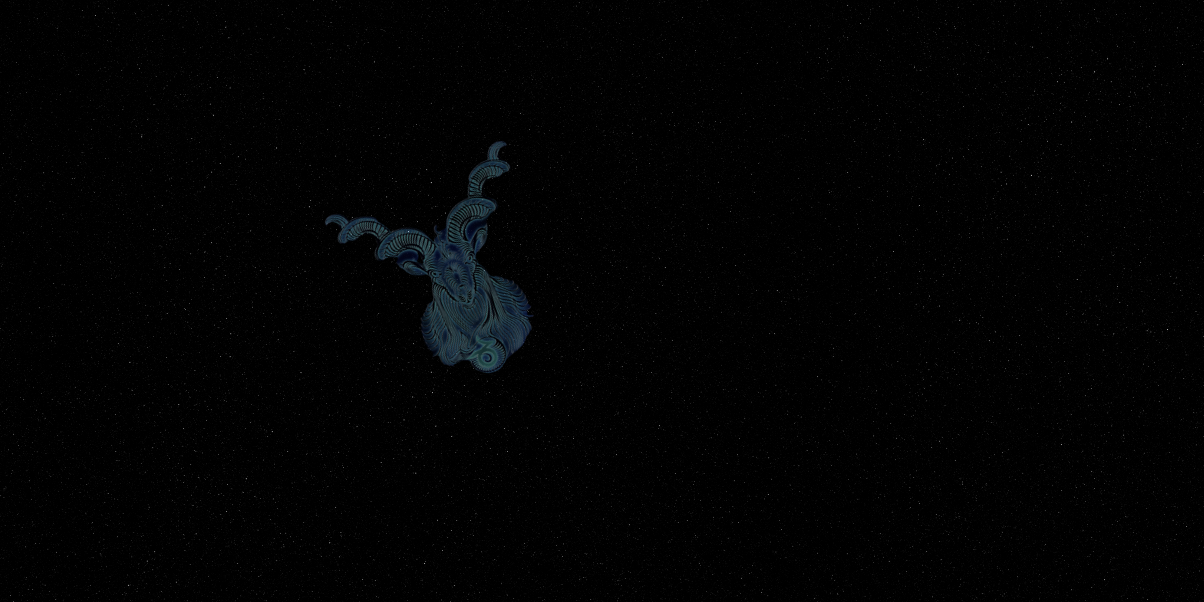
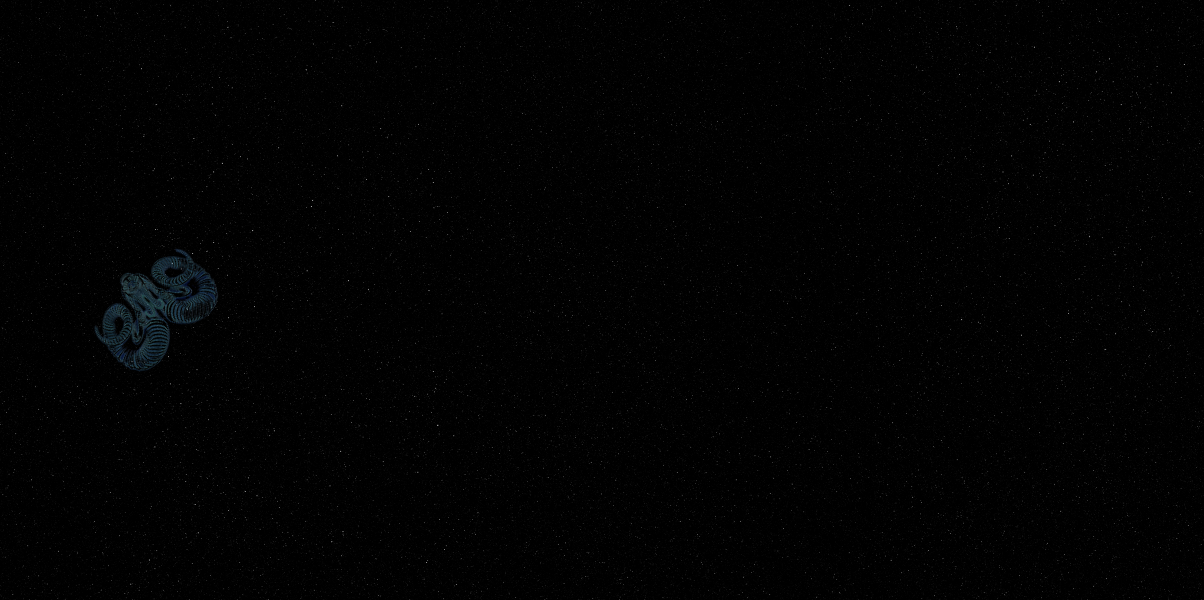
황도12궁 -이연희-

Changed region(s): [[0.2766, 0.24, 0.461, 0.63], [0.0615, 0.42, 0.1844, 0.63]]

diff --git a/js/Star/Scorpius.js b/js/Star/Scorpius.js
@@ -13,135 +13,135 @@ const SCORPIUS_1Mesh = new THREE.Mesh(geometry, Material_1);
 SCORPIUS_1Mesh.position.set(5,-115,435);
 SCORPIUS_1Mesh.scale.setScalar(4);
 scene.add(SCORPIUS_1Mesh);
-const light10_1 = new THREE.AmbientLight( 0x404040 ); // soft white light
-scene.add( light10_1 );
-light10_1.position.set(5,-115,435);
+// const light10_1 = new THREE.AmbientLight( 0x404040 ); // soft white light
+// scene.add( light10_1 );
+// light10_1.position.set(5,-115,435);
 
 ///SCORPIUS_2
 const SCORPIUS_2Mesh = new THREE.Mesh(geometry, Material_1);
 SCORPIUS_2Mesh.position.set(20,-130,430);
 SCORPIUS_2Mesh.scale.setScalar(4);
 scene.add(SCORPIUS_2Mesh);
-const light10_2 = new THREE.AmbientLight( 0x404040 ); // soft white light
-scene.add( light10_2 );
-light10_2.position.set(20,-130,430);
+// const light10_2 = new THREE.AmbientLight( 0x404040 ); // soft white light
+// scene.add( light10_2 );
+// light10_2.position.set(20,-130,430);
 
 ///SCORPIUS_3
 const SCORPIUS_3Mesh = new THREE.Mesh(geometry, Material_1);
 SCORPIUS_3Mesh.position.set(30,-142,425);
 SCORPIUS_3Mesh.scale.setScalar(4);
 scene.add(SCORPIUS_3Mesh);
-const light10_3 = new THREE.AmbientLight( 0x404040 ); // soft white light
-scene.add( light10_3 );
-light10_3.position.set(30,-142,425);
+// const light10_3 = new THREE.AmbientLight( 0x404040 ); // soft white light
+// scene.add( light10_3 );
+// light10_3.position.set(30,-142,425);
 
 ///SCORPIUS_4
 const SCORPIUS_4Mesh = new THREE.Mesh(geometry, Material_1);
 SCORPIUS_4Mesh.position.set(10,-165,417);
 SCORPIUS_4Mesh.scale.setScalar(4);
 scene.add(SCORPIUS_4Mesh);
-const light10_4 = new THREE.AmbientLight( 0x404040 ); // soft white light
-scene.add( light10_4 );
-light10_4.position.set(10,-165,417);
+// const light10_4 = new THREE.AmbientLight( 0x404040 ); // soft white light
+// scene.add( light10_4 );
+// light10_4.position.set(10,-165,417);
 
 ///SCORPIUS_5
 const SCORPIUS_5Mesh = new THREE.Mesh(geometry, Material_1);
 SCORPIUS_5Mesh.position.set(-25,-170,415);
 SCORPIUS_5Mesh.scale.setScalar(4);
 scene.add(SCORPIUS_5Mesh);
-const light10_5 = new THREE.AmbientLight( 0x404040 ); // soft white light
-scene.add( light10_5 );
-light10_5.position.set(-20,-170,417);
+// const light10_5 = new THREE.AmbientLight( 0x404040 ); // soft white light
+// scene.add( light10_5 );
+// light10_5.position.set(-20,-170,417);
 
 ///SCORPIUS_6
 const SCORPIUS_6Mesh = new THREE.Mesh(geometry, Material_1);
 SCORPIUS_6Mesh.position.set(-55,-165,415);
 SCORPIUS_6Mesh.scale.setScalar(4);
 scene.add(SCORPIUS_6Mesh);
-const light10_6 = new THREE.AmbientLight( 0x404040 ); // soft white light
-scene.add( light10_6 );
-light10_6.position.set(-55,-165,415);
+// const light10_6 = new THREE.AmbientLight( 0x404040 ); // soft white light
+// scene.add( light10_6 );
+// light10_6.position.set(-55,-165,415);
 
 ///SCORPIUS_7
 const SCORPIUS_7Mesh = new THREE.Mesh(geometry, Material_1);
 SCORPIUS_7Mesh.position.set(-65,-130,425);
 SCORPIUS_7Mesh.scale.setScalar(4);
 scene.add(SCORPIUS_7Mesh);
-const light10_7 = new THREE.AmbientLight( 0x404040 ); // soft white light
-scene.add( light10_7 );
-light10_7.position.set(-65,-130,425);
+// const light10_7 = new THREE.AmbientLight( 0x404040 ); // soft white light
+// scene.add( light10_7 );
+// light10_7.position.set(-65,-130,425);
 
 ///SCORPIUS_8
 const SCORPIUS_8Mesh = new THREE.Mesh(geometry, Material_1);
 SCORPIUS_8Mesh.position.set(-75,-100,430);
 SCORPIUS_8Mesh.scale.setScalar(4);
 scene.add(SCORPIUS_8Mesh);
-const light10_8 = new THREE.AmbientLight( 0x404040 ); // soft white light
-scene.add( light10_8 );
-light10_8.position.set(-75,-100,430);
+// const light10_8 = new THREE.AmbientLight( 0x404040 ); // soft white light
+// scene.add( light10_8 );
+// light10_8.position.set(-75,-100,430);
 
 ///SCORPIUS_9
 const SCORPIUS_9Mesh = new THREE.Mesh(geometry, Material_1);
 SCORPIUS_9Mesh.position.set(-105,-50,435);
 SCORPIUS_9Mesh.scale.setScalar(4);
 scene.add(SCORPIUS_9Mesh);
-const light10_9 = new THREE.AmbientLight( 0x404040 ); // soft white light
-scene.add( light10_9 );
-light10_9.position.set(-105,-50,435);
+// const light10_9 = new THREE.AmbientLight( 0x404040 ); // soft white light
+// scene.add( light10_9 );
+// light10_9.position.set(-105,-50,435);
 
 ///SCORPIUS_10
 const SCORPIUS_10Mesh = new THREE.Mesh(geometry, Material_1);
 SCORPIUS_10Mesh.position.set(-120,-40,430);
 SCORPIUS_10Mesh.scale.setScalar(4);
 scene.add(SCORPIUS_10Mesh);
-const light10_10 = new THREE.AmbientLight( 0x404040 ); // soft white light
-scene.add( light10_10 );
-light10_10.position.set(-120,-40,430);
+// const light10_10 = new THREE.AmbientLight( 0x404040 ); // soft white light
+// scene.add( light10_10 );
+// light10_10.position.set(-120,-40,430);
 
 ///SCORPIUS_11
 const SCORPIUS_11Mesh = new THREE.Mesh(geometry, Material_1);
 SCORPIUS_11Mesh.position.set(-135,-30,427);
 SCORPIUS_11Mesh.scale.setScalar(4);
 scene.add(SCORPIUS_11Mesh);
-const light10_11 = new THREE.AmbientLight( 0x404040 ); // soft white light
-scene.add( light10_11 );
-light10_11.position.set(-135,-30,427);
+// const light10_11 = new THREE.AmbientLight( 0x404040 ); // soft white light
+// scene.add( light10_11 );
+// light10_11.position.set(-135,-30,427);
 
 ///SCORPIUS_12
 const SCORPIUS_12Mesh = new THREE.Mesh(geometry, Material_1);
 SCORPIUS_12Mesh.position.set(-185,-15,410);
 SCORPIUS_12Mesh.scale.setScalar(4);
 scene.add(SCORPIUS_12Mesh);
-const light10_12 = new THREE.AmbientLight( 0x404040 ); // soft white light
-scene.add( light10_12 );
-light10_12.position.set(-185,-15,410);
+// const light10_12 = new THREE.AmbientLight( 0x404040 ); // soft white light
+// scene.add( light10_12 );
+// light10_12.position.set(-185,-15,410);
 
 ///SCORPIUS_13
 const SCORPIUS_13Mesh = new THREE.Mesh(geometry, Material_1);
 SCORPIUS_13Mesh.position.set(-175,5,415);
 SCORPIUS_13Mesh.scale.setScalar(4);
 scene.add(SCORPIUS_13Mesh);
-const light10_13 = new THREE.AmbientLight( 0x404040 ); // soft white light
-scene.add( light10_13 );
-light10_13.position.set(-175,5,415);
+// const light10_13 = new THREE.AmbientLight( 0x404040 ); // soft white light
+// scene.add( light10_13 );
+// light10_13.position.set(-175,5,415);
 
 ///SCORPIUS_14
 const SCORPIUS_14Mesh = new THREE.Mesh(geometry, Material_1);
 SCORPIUS_14Mesh.position.set(-185,-40,407);
 SCORPIUS_14Mesh.scale.setScalar(4);
 scene.add(SCORPIUS_14Mesh);
-const light10_14 = new THREE.AmbientLight( 0x404040 ); // soft white light
-scene.add( light10_14 );
-light10_14.position.set(-185,-40,407);
+// const light10_14 = new THREE.AmbientLight( 0x404040 ); // soft white light
+// scene.add( light10_14 );
+// light10_14.position.set(-185,-40,407);
 
 ///SCORPIUS_15
 const SCORPIUS_15Mesh = new THREE.Mesh(geometry, Material_1);
 SCORPIUS_15Mesh.position.set(-180,-70,405);
 SCORPIUS_15Mesh.scale.setScalar(4);
 scene.add(SCORPIUS_15Mesh);
-const light10_15 = new THREE.AmbientLight( 0x404040 ); // soft white light
-scene.add( light10_15 );
-light10_15.position.set(-180,-70,405);
+// const light10_15 = new THREE.AmbientLight( 0x404040 ); // soft white light
+// scene.add( light10_15 );
+// light10_15.position.set(-180,-70,405);
 
 
 }

diff --git a/js/main.js b/js/main.js
@@ -32,7 +32,7 @@ var width  = window.innerWidth,
 // Create scene
 export const scene = new THREE.Scene();
 const loader = new THREE.TextureLoader();
-var camera = new THREE.PerspectiveCamera( 90, width / height, 1, 1000 );
+var camera = new THREE.PerspectiveCamera( 90, width / height, 1, 10000 );
 // camera.position.set(-80, -20, 20);  
 
 // TrackballControls for view control
@@ -144,7 +144,8 @@ createSpotlights(scene);
 // Close up taget
 var selectedCons = 0;
 
-camera.position.set(0, 0, -10);
+camera.position.set(300, 300, 500);
+
 document.getElementById("btn_Aries").onclick = function (event) {
     if (selectedCons !== 'Aries') {
             selectedCons = 'Aries'
@@ -286,6 +287,9 @@ document.getElementById("PlanetPositionResetBtn").onclick = function (event) {
 };
 document.getElementById("btn_cameraReset").onclick = function (event) {
     camera.position.set(300, 300, 500);
+    var stars20 = createStars(480, 100);
+    scene.add(stars20);
+
 };
 
 

diff --git a/js/Line/lineCapricorn.js b/js/Line/lineCapricorn.js
@@ -32,7 +32,7 @@ var xdt45 = 390, ydt45 = -30, zdt45 = 225;
 var xdt56 = 400, ydt56 = -45, zdt56 = 200;
 var xdt67 = 405, ydt67 = -55, zdt67 = 185;
 var xdt78 = 390, ydt78 = -60, zdt78 = 215;
-var xdt810 = 385, ydt810 = -70, zdt810 = 240;
+var xdt810 = 375, ydt810 = -70, zdt810 = 240;
 var xdt110 = 300, ydt110 = 85, zdt110 = 320;
 
 export function lineCapricorn() {
